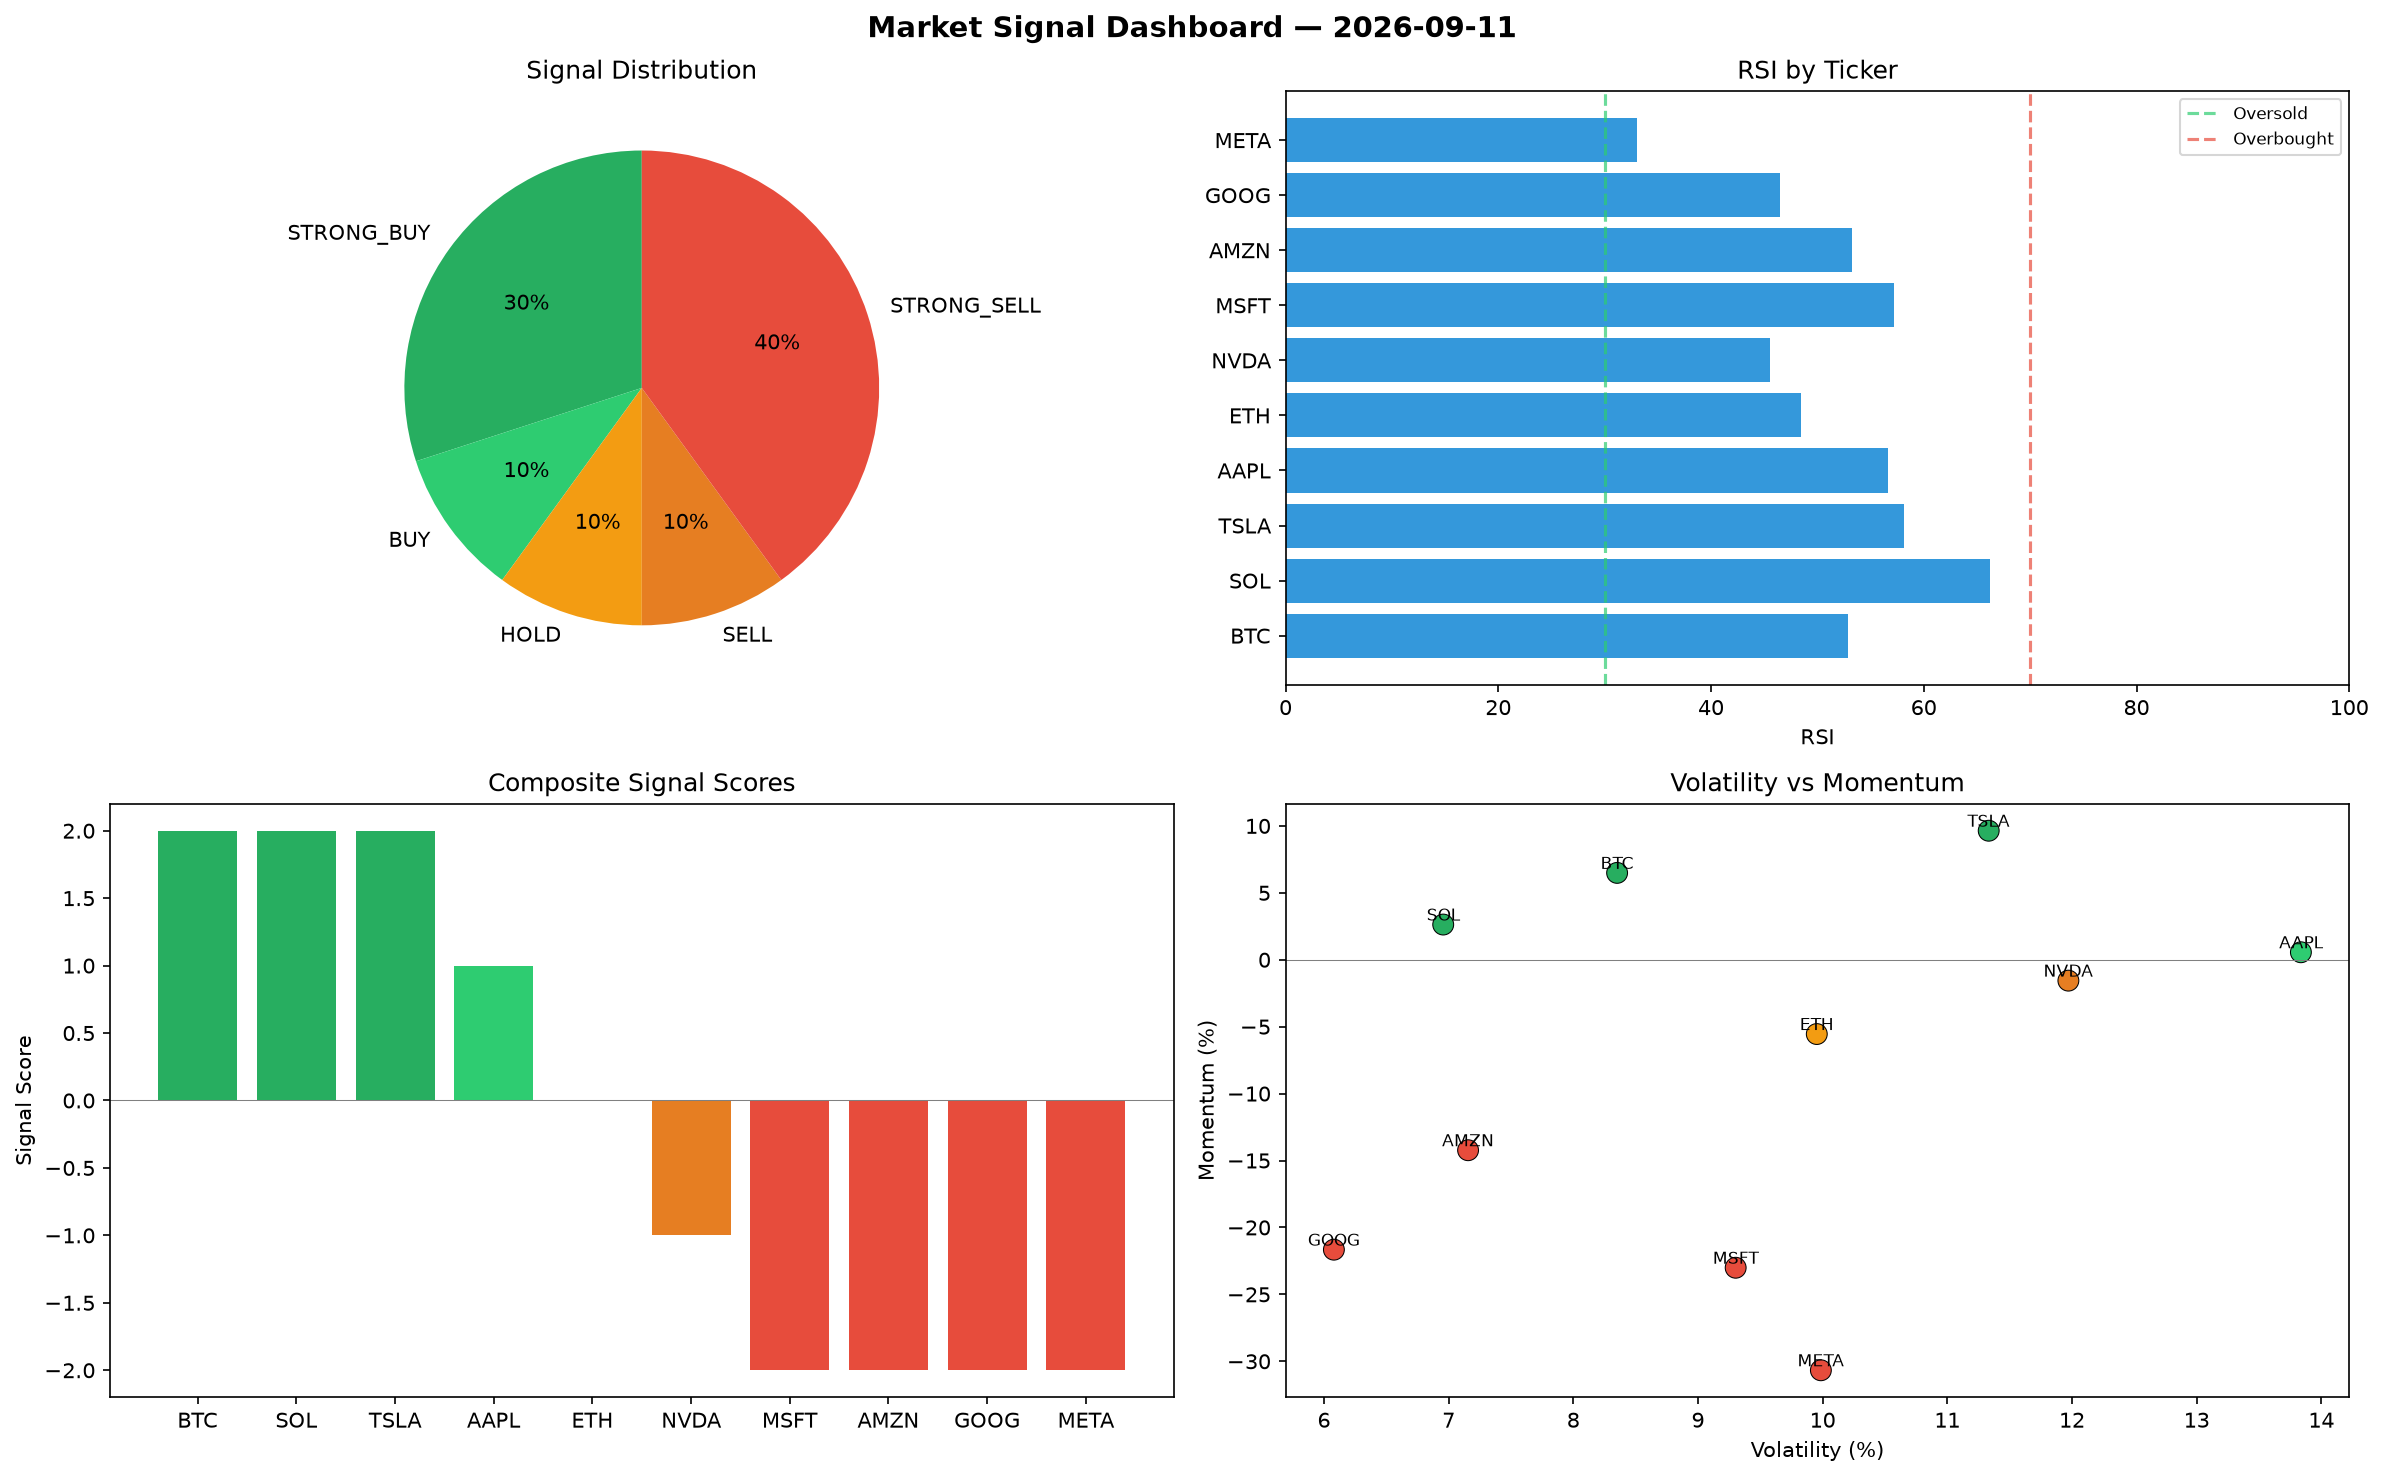
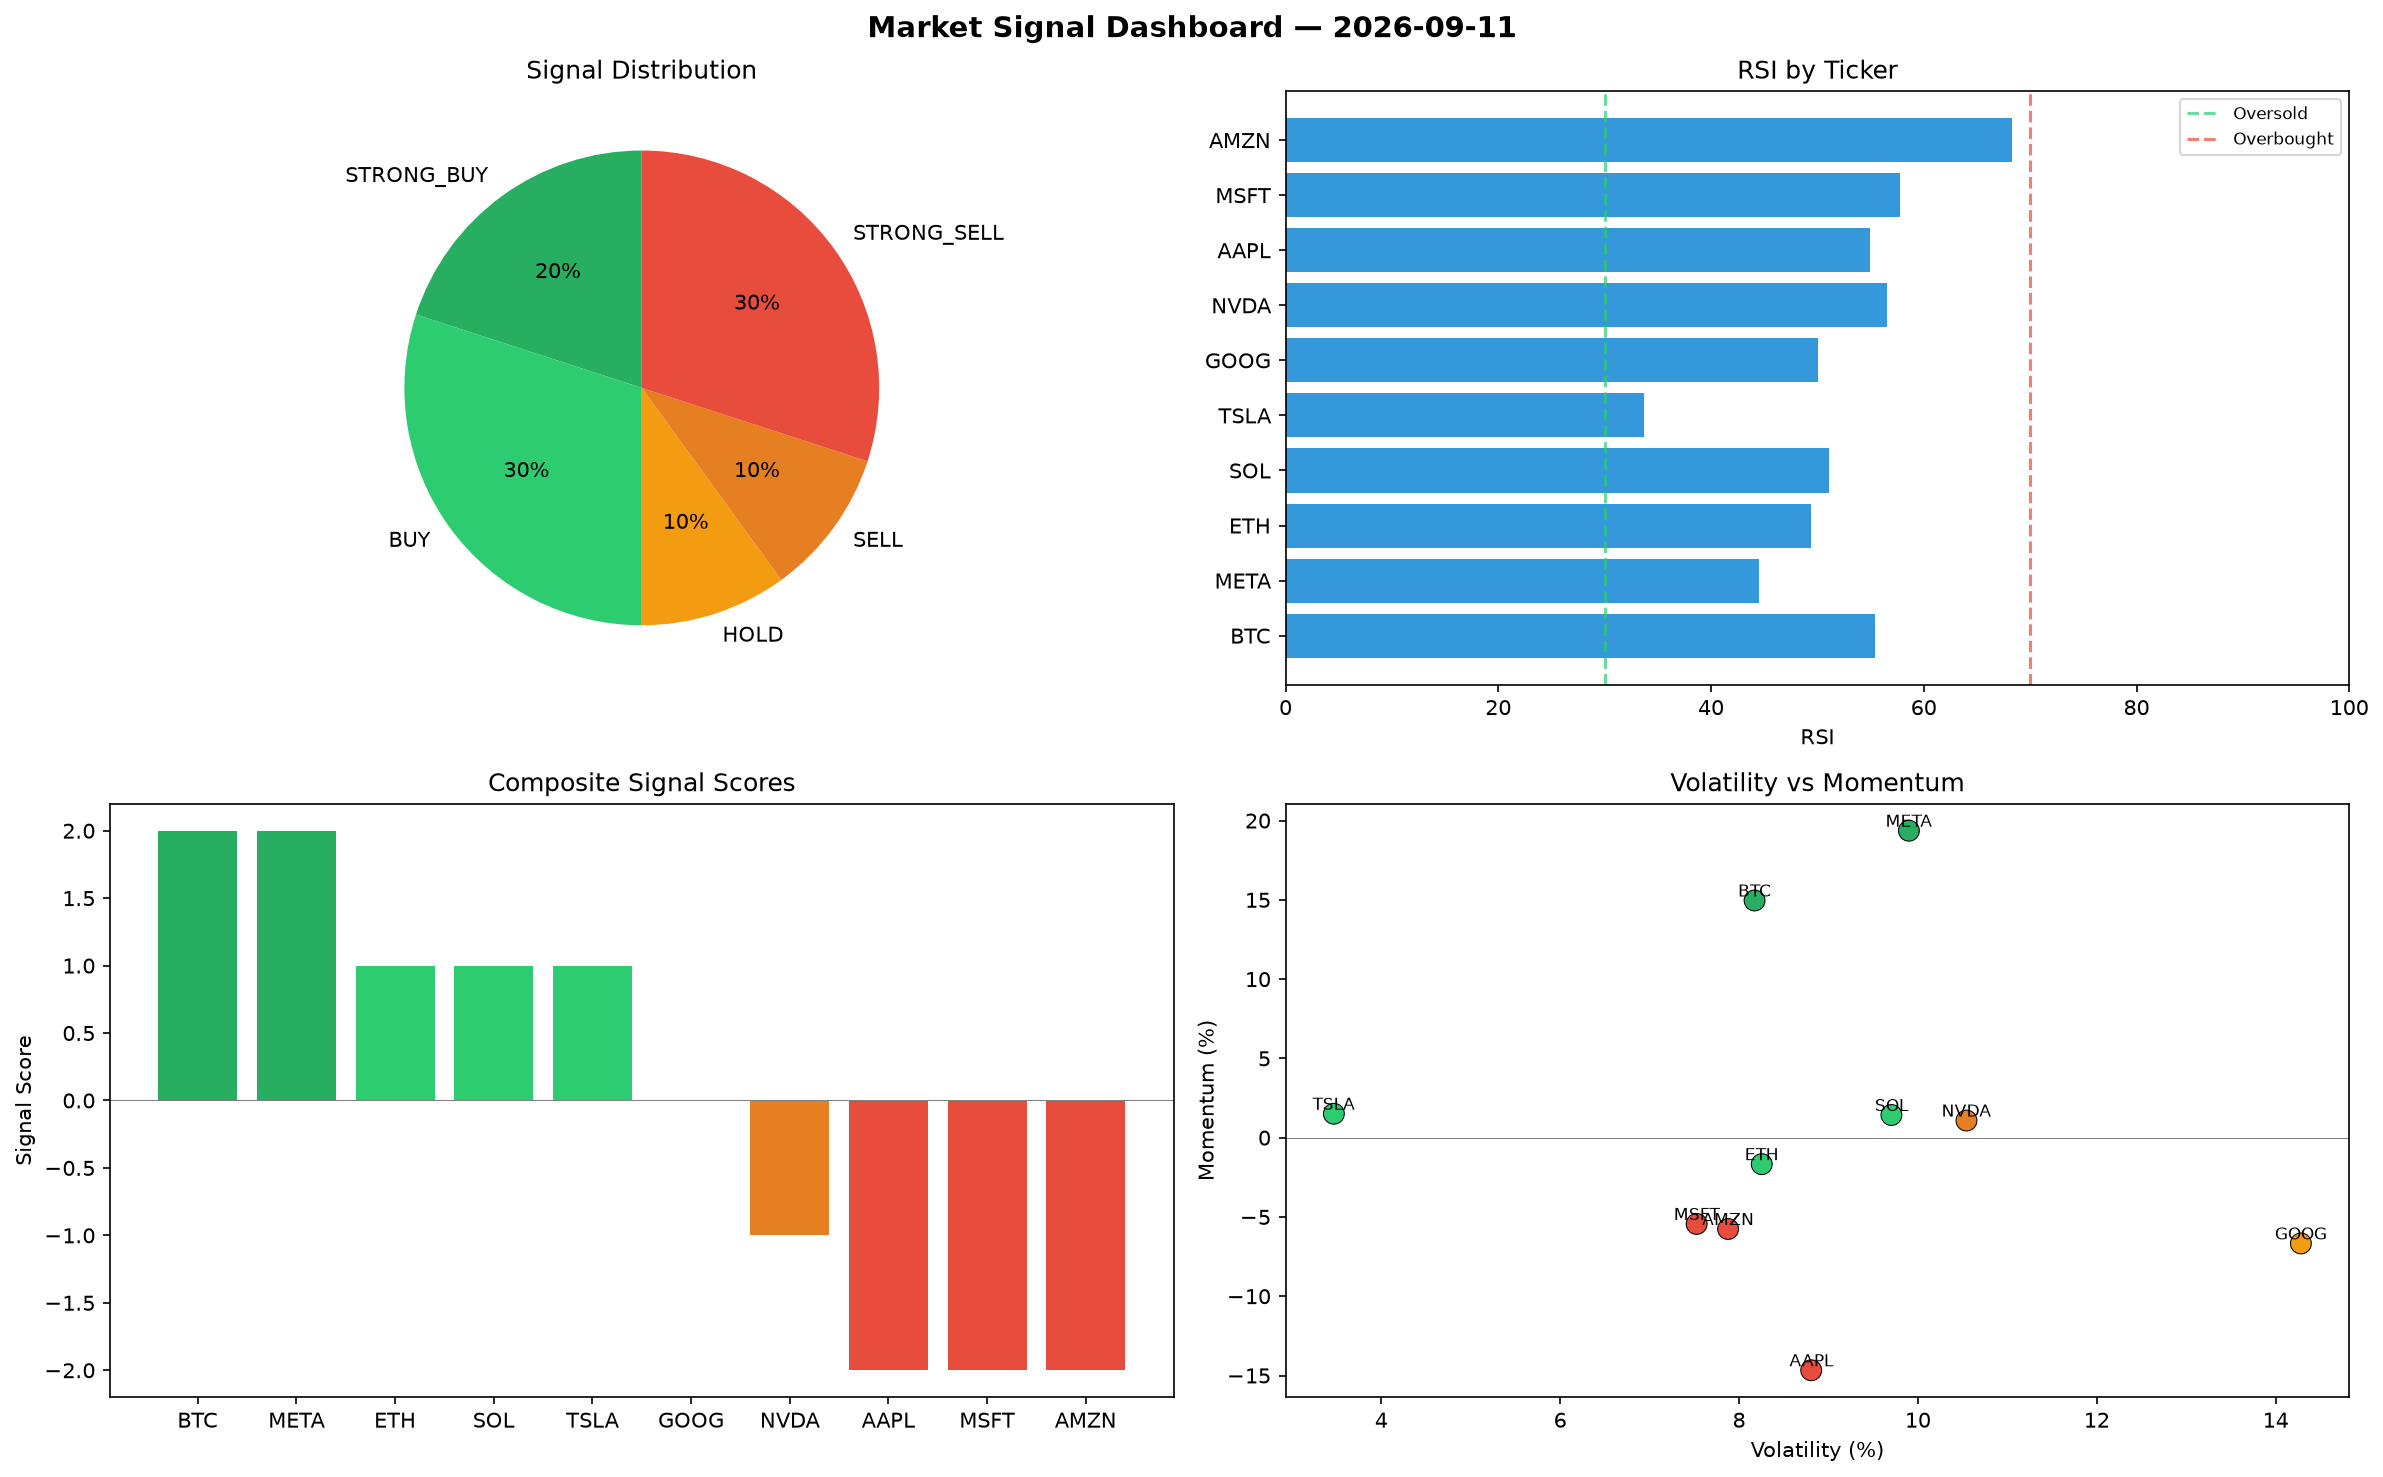
automated-bots: market signals 2026-09-11T12:54

diff --git a/logs/2026-09-11.md b/logs/2026-09-11.md
@@ -1,6 +1,6 @@
 # Market Signal Report — 2026-09-11
 
-**Run ID:** `5dded2dc6e` | **Buy:** 4 | **Sell:** 5 | **Hold:** 1
+**Run ID:** `ed4e3039eb` | **Buy:** 5 | **Sell:** 4 | **Hold:** 1
 
 ![Dashboard](2026-09-11_dashboard.png)
 
@@ -8,28 +8,28 @@
 
 | Ticker | Price | Signal | Score | RSI | Momentum | Confidence |
 |--------|-------|--------|-------|-----|----------|------------|
-| BTC | $3498.58 | **STRONG_BUY** | 2 | 52.88 | 0.0649 | 0.5 |
-| SOL | $4419.64 | **STRONG_BUY** | 2 | 66.24 | 0.0263 | 0.5 |
-| TSLA | $2265.6 | **STRONG_BUY** | 2 | 58.18 | 0.0964 | 0.5 |
-| AAPL | $3335.11 | **BUY** | 1 | 56.65 | 0.0056 | 0.25 |
-| ETH | $1529.84 | **HOLD** | 0 | 48.46 | -0.0555 | 0.0 |
-| NVDA | $834.32 | **SELL** | -1 | 45.56 | -0.0156 | 0.25 |
-| MSFT | $867.39 | **STRONG_SELL** | -2 | 57.16 | -0.2301 | 0.5 |
-| AMZN | $3775.61 | **STRONG_SELL** | -2 | 53.25 | -0.1423 | 0.5 |
-| GOOG | $862.95 | **STRONG_SELL** | -2 | 46.52 | -0.2166 | 0.5 |
-| META | $365.18 | **STRONG_SELL** | -2 | 33.01 | -0.3067 | 0.5 |
+| BTC | $859.41 | **STRONG_BUY** | 2 | 55.45 | 0.1496 | 0.5 |
+| META | $5401.49 | **STRONG_BUY** | 2 | 44.55 | 0.1936 | 0.5 |
+| ETH | $4502.18 | **BUY** | 1 | 49.43 | -0.0167 | 0.25 |
+| SOL | $269.9 | **BUY** | 1 | 51.09 | 0.0143 | 0.25 |
+| TSLA | $3901.1 | **BUY** | 1 | 33.74 | 0.0151 | 0.25 |
+| GOOG | $3242.94 | **HOLD** | 0 | 50.06 | -0.0667 | 0.0 |
+| NVDA | $573.43 | **SELL** | -1 | 56.54 | 0.0108 | 0.25 |
+| AAPL | $2418.94 | **STRONG_SELL** | -2 | 54.97 | -0.1467 | 0.5 |
+| MSFT | $3517.46 | **STRONG_SELL** | -2 | 57.76 | -0.0544 | 0.5 |
+| AMZN | $195.11 | **STRONG_SELL** | -2 | 68.32 | -0.0576 | 0.5 |
 
 ## Delta vs Yesterday
 
 | Ticker | Today | Yesterday | Price Change | Signal Changed |
 |--------|-------|-----------|-------------|----------------|
-| BTC | STRONG_BUY | SELL | 📉 -20.92% | ⚠ YES |
-| SOL | STRONG_BUY | STRONG_SELL | 📈 575.0% | ⚠ YES |
-| TSLA | STRONG_BUY | STRONG_SELL | 📉 -18.43% | ⚠ YES |
-| AAPL | BUY | HOLD | 📈 28.97% | ⚠ YES |
-| ETH | HOLD | SELL | 📉 -22.55% | ⚠ YES |
-| NVDA | SELL | STRONG_SELL | 📉 -72.8% | ⚠ YES |
-| MSFT | STRONG_SELL | STRONG_SELL | 📉 -18.02% | — |
-| AMZN | STRONG_SELL | BUY | 📈 25.99% | ⚠ YES |
-| GOOG | STRONG_SELL | HOLD | 📉 -61.2% | ⚠ YES |
-| META | STRONG_SELL | SELL | 📉 -85.21% | ⚠ YES |
+| BTC | STRONG_BUY | SELL | 📉 -80.57% | ⚠ YES |
+| META | STRONG_BUY | SELL | 📈 118.77% | ⚠ YES |
+| ETH | BUY | SELL | 📈 127.94% | ⚠ YES |
+| SOL | BUY | STRONG_SELL | 📉 -58.78% | ⚠ YES |
+| TSLA | BUY | STRONG_SELL | 📈 40.45% | ⚠ YES |
+| GOOG | HOLD | HOLD | 📈 45.8% | — |
+| NVDA | SELL | STRONG_SELL | 📉 -81.3% | ⚠ YES |
+| AAPL | STRONG_SELL | HOLD | 📉 -6.46% | ⚠ YES |
+| MSFT | STRONG_SELL | STRONG_SELL | 📈 232.45% | — |
+| AMZN | STRONG_SELL | BUY | 📉 -93.49% | ⚠ YES |
